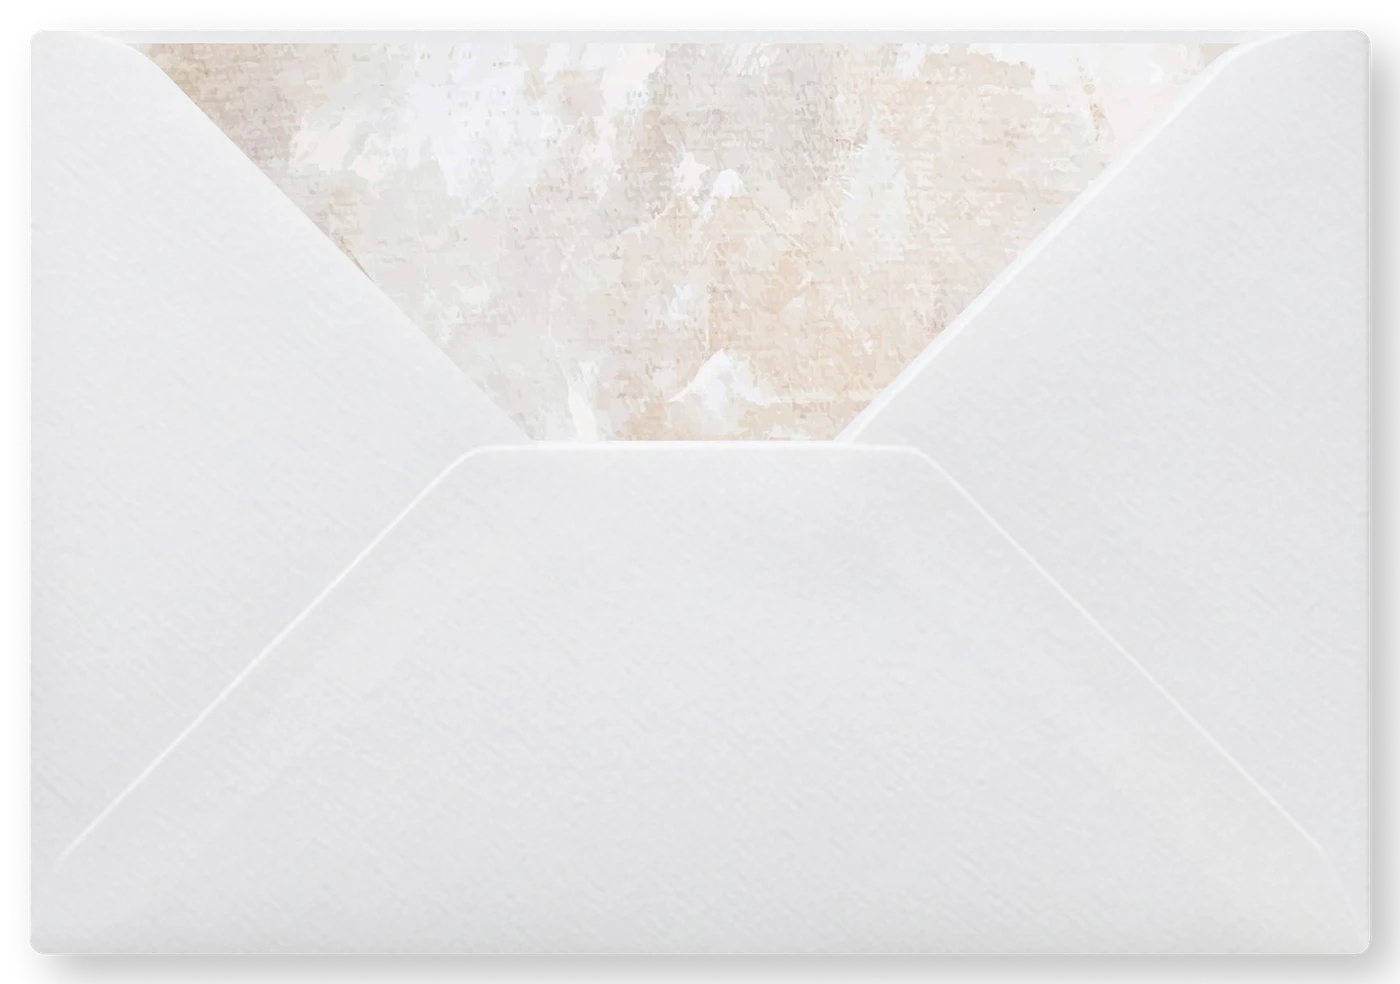
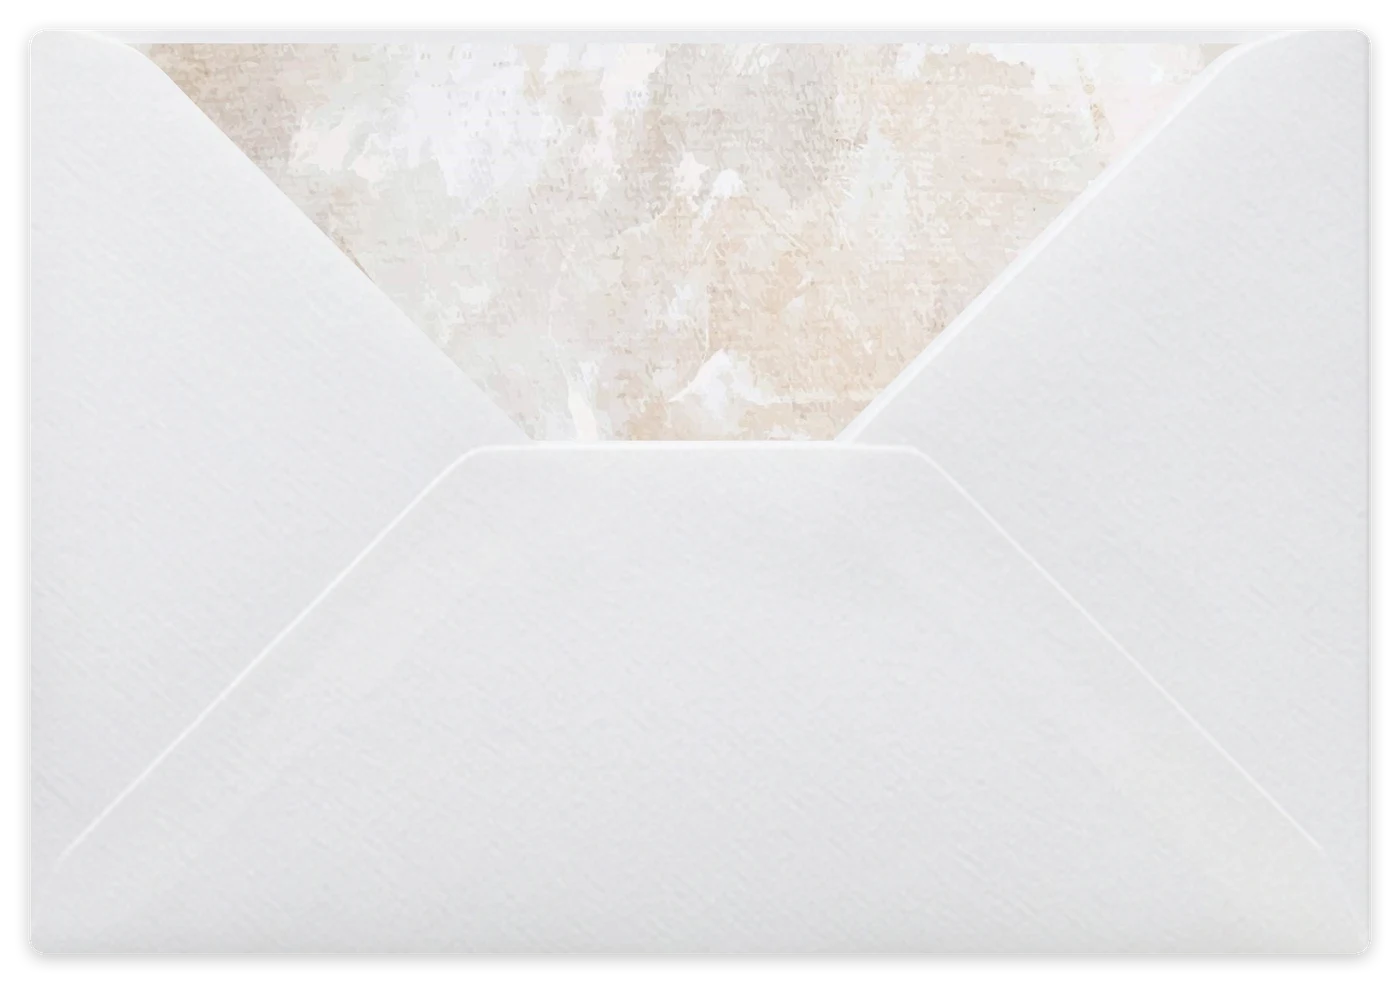
Mono Script cover: blurred soft envelope shadow, slower opening, open flap lower on the body, 15px space around the envelope

Changed region(s): [[0.0307, 0.061, 1.0, 1.0]]

diff --git a/app/templates/mono-script.css b/app/templates/mono-script.css
@@ -449,3 +449,10 @@ body:has(.inv[data-template="mono-script"]) .music-btn { color:#111; border-colo
 .inv[data-template="mono-script"] .env-art { width:calc(100% * 2072 / 1984); aspect-ratio:2072/1456; }
 .inv[data-template="mono-script"] .env-flap-closed { left:-.594%; top:-1.813%; width:103.43%; height:80.29%; transform-origin:50% 6.02%; }
 .inv[data-template="mono-script"] .env-flap-open { left:1.153%; top:-70.44%; width:96.91%; height:114.15%; transform-origin:50% 64.3%; }
+
+/* ───────── 66. COVER envelope: slower opening (about 1.6x; the page waits OPEN_MS_BY_TEMPLATE in components/invitation/Experience.tsx), the open flap sits lower on the body, 15px space above and below the envelope ───────── */
+.inv[data-template="mono-script"] .cover-env { margin-block:calc(15px * var(--k,1)); }
+.inv[data-template="mono-script"] .env-flap-closed { transition:transform .8s cubic-bezier(.45,0,.85,.6), visibility 0s linear .8s; }
+.inv[data-template="mono-script"] .env-flap-open { top:-67.4%; transition:transform 1.2s cubic-bezier(.12,.5,.3,1) .8s, visibility 0s linear .8s; }   /* top: was -70.44%; a bigger number sits lower */
+.inv[data-template="mono-script"][data-phase="opening"] .env-btn { transition:opacity .7s ease 2s, transform .95s cubic-bezier(.4,0,.2,1) 2s; }
+.inv[data-template="mono-script"][data-phase="opening"] .cover-top, .inv[data-template="mono-script"][data-phase="opening"] .cover-names, .inv[data-template="mono-script"][data-phase="opening"] .cover-bottom, .inv[data-template="mono-script"][data-phase="opening"] .env-hint { transition:opacity .5s ease; }

diff --git a/components/invitation/Experience.tsx b/components/invitation/Experience.tsx
@@ -8,6 +8,8 @@ import { Invitation } from "./Invitation";
 
 type Phase = "closed" | "opening" | "open";
 const OPEN_MS = 2500; // keep in sync with the transitions in globals.css
+// a design with a slower envelope (its own transitions in its stylesheet) says how long the opening takes
+const OPEN_MS_BY_TEMPLATE: Partial<Record<TemplateSlug, number>> = { "mono-script": 4200 };
 
 /**
  * Animated guest experience: tap the envelope, its two halves slide apart,
@@ -46,11 +48,11 @@ export function Experience({ content, mode = "public", calendarHref, rsvpSlug, t
 
   useEffect(() => {
     if (phase === "opening") {
-      const t = setTimeout(() => setPhase("open"), OPEN_MS);
+      const t = setTimeout(() => setPhase("open"), (template && OPEN_MS_BY_TEMPLATE[template]) || OPEN_MS);
       return () => clearTimeout(t);
     }
     if (phase === "open") root.current?.querySelector<HTMLElement>('[data-card="2"]')?.focus({ preventScroll: true });
-  }, [phase]);
+  }, [phase, template]);
 
   // Phones show the cards as full-screen slides: scale the fixed-px sizes of the 340×567 design to the screen.
   // Set before the first paint (no flash of unscaled text). The height used is the tallest seen for this width, so the
